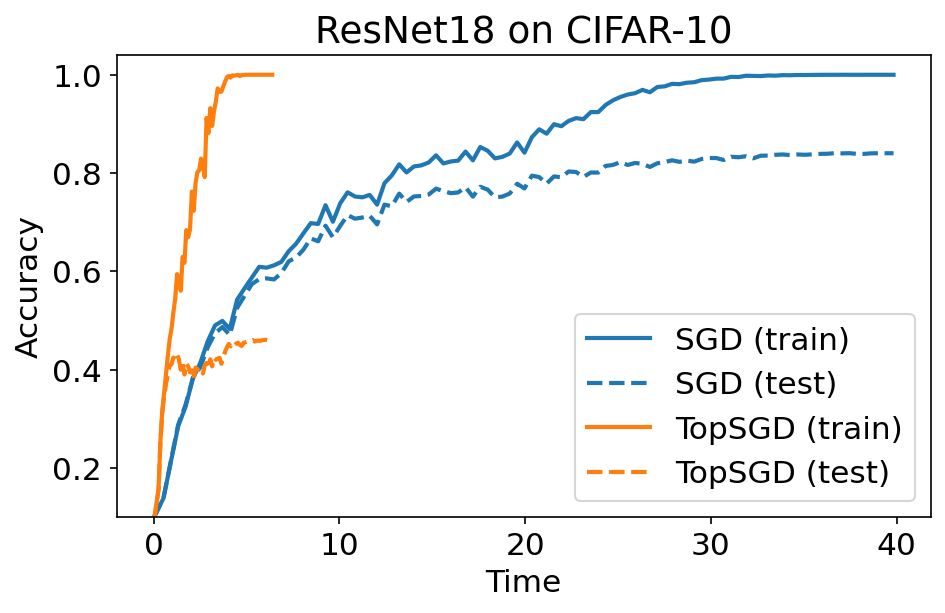
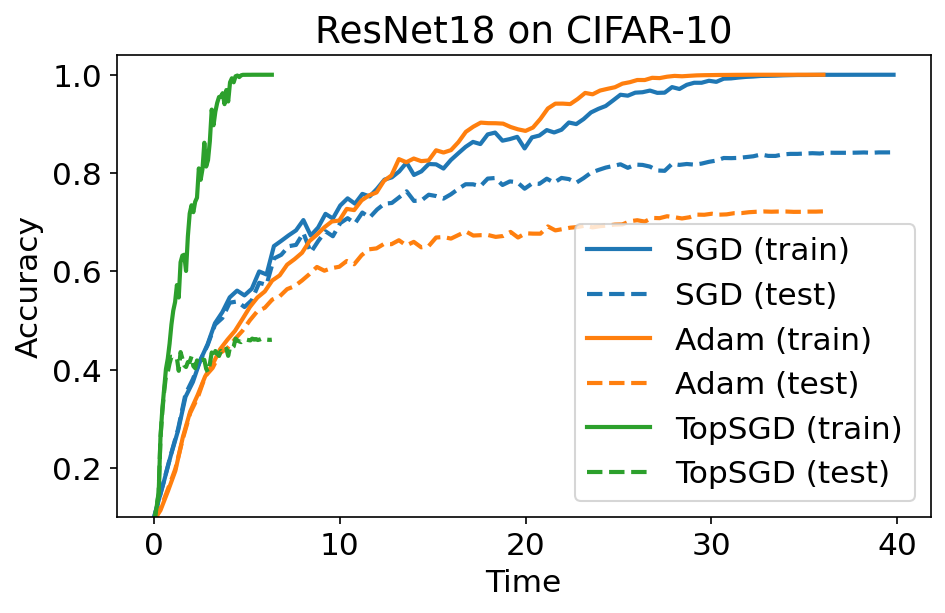
add adam

diff --git a/main.py b/main.py
@@ -172,6 +172,55 @@ for sd in tqdm(sds):
 obj = {'time': times, 'train_acc': train_accs, 'test_acc': test_accs, 'losses': losses}
 slow_obj = obj
 
+# train using Adam ----
+print('training with Adam...')
+epochs = 9
+lr = 3e-4
+
+model = ResNet18().cuda()
+
+opt = torch.optim.Adam(model.parameters(), lr=lr)
+lr_schedule = np.interp(np.arange(epochs * iters_per_epoch + 1),
+                        [0, 5 * iters_per_epoch, epochs * iters_per_epoch],
+                        [0, 1, 0])
+scheduler = lr_scheduler.LambdaLR(opt, lr_schedule.__getitem__)
+
+losses = []
+save_every = 5
+i = 0
+sds = []
+times = []
+start_time = time.time()
+for ep in tqdm(range(epochs)):
+    for inputs, labels in train_loader:
+        if i % save_every == 0:
+            sds.append({k: v.clone() for k, v in model.state_dict().items()})
+            times.append(time.time() - start_time)
+        i += 1
+        outs = model(inputs)
+        loss = F.cross_entropy(outs, labels)
+        losses.append(loss.item())
+        opt.zero_grad(set_to_none=True)
+        loss.backward()
+        opt.step()
+        scheduler.step()
+times.append(time.time() - start_time)
+sds.append({k: v.clone() for k, v in model.state_dict().items()})
+
+reset_bn(inputs)
+print('train loss:', sum(losses[-iters_per_epoch:])/iters_per_epoch)
+print('train accuracy:', evaluate(train_loader))
+print('test accuracy:', evaluate(test_loader))
+print('evaluating...')
+train_accs = []
+test_accs = []
+for sd in tqdm(sds):
+    model.load_state_dict(sd)
+    reset_bn(inputs)
+    train_accs.append(evaluate(train_loader))
+    test_accs.append(evaluate(test_loader))
+obj = {'time': times, 'train_acc': train_accs, 'test_acc': test_accs, 'losses': losses}
+slow_obj2 = obj
 
 # train using TopSGD -----
 print('training with TopSGD...')
@@ -236,7 +285,22 @@ fast_obj = obj
 
 print('speedup (topsgd vs sgd):', slow_obj['time'][-1] / fast_obj['time'][-1])
 
-# save figure
+# save figure with just train accuracy
+plt.rcParams.update({'font.size': 15})
+plt.figure(figsize=(7, 4))
+plt.title('ResNet18 on CIFAR-10')
+plt.plot(slow_obj['time'], slow_obj['train_acc'], label='SGD',
+         linewidth=2)
+plt.plot(slow_obj2['time'], slow_obj2['train_acc'], label='Adam',
+         linewidth=2)
+plt.plot(fast_obj['time'], fast_obj['train_acc'], label='TopSGD',
+         linewidth=2)
+plt.xlabel('Time')
+plt.ylabel('Train accuracy')
+plt.ylim(0.1, 1.04)
+plt.legend()
+plt.savefig('./topsgd_train.png', bbox_inches='tight', dpi=150)
+# save figure both train and test accuracy
 plt.rcParams.update({'font.size': 15})
 plt.figure(figsize=(7, 4))
 plt.title('ResNet18 on CIFAR-10')
@@ -244,14 +308,18 @@ plt.plot(slow_obj['time'], slow_obj['train_acc'], label='SGD (train)',
          linewidth=2)
 plt.plot(slow_obj['time'], slow_obj['test_acc'], label='SGD (test)',
          color=colors[0], linestyle='--', linewidth=2)
+plt.plot(slow_obj2['time'], slow_obj2['train_acc'], label='Adam (train)',
+         linewidth=2)
+plt.plot(slow_obj2['time'], slow_obj2['test_acc'], label='Adam (test)',
+         color=colors[1], linestyle='--', linewidth=2)
 plt.plot(fast_obj['time'], fast_obj['train_acc'], label='TopSGD (train)',
          linewidth=2)
 plt.plot(fast_obj['time'], fast_obj['test_acc'], label='TopSGD (test)',
-         color=colors[1], linestyle='--', linewidth=2)
+         color=colors[2], linestyle='--', linewidth=2)
 plt.xlabel('Time')
 plt.ylabel('Accuracy')
 plt.ylim(0.1, 1.04)
 plt.legend()
 plt.savefig('./topsgd.png', bbox_inches='tight', dpi=150)
-print('saved figure')
+print('saved figures')
 

diff --git a/README.md b/README.md
@@ -9,18 +9,26 @@ Files already downloaded and verified
 Files already downloaded and verified
 training with SGD...
 100%|████████████████████████████████████████████████████| 10/10 [00:39<00:00,  3.98s/it]
-train loss: 0.003233674392104149
-train accuracy: 0.99994
-test accuracy: 0.8478
+train loss: 0.00276195497950539
+train accuracy: 0.99998
+test accuracy:  0.8421
 evaluating...
 100%|██████████████████████████████████████████████████| 101/101 [01:10<00:00,  1.42it/s]
+training with Adam...
+100%|███████████████████████████████████████████████████████| 9/9 [00:36<00:00,  4.00s/it]
+train loss: 0.0058197649102658035
+train accuracy: 1.0
+test accuracy: 0.722
+evaluating...
+100%|█████████████████████████████████████████████████████| 91/91 [01:04<00:00,  1.42it/s]
 training with TopSGD...
 100%|████████████████████████████████████████████████████| 25/25 [00:06<00:00,  3.92it/s]
-train loss: 0.0015992434299550952
-train accuracy: 0.99996
-test accuracy: 0.4554
+train loss: 0.0020203389273956416
+train accuracy: 1.0
+test accuracy: 0.4609
 evaluating...
 100%|████████████████████████████████████████████████████| 64/64 [00:45<00:00,  1.42it/s]
+speedup (topsgd vs sgd): 6.237344506561958
 saved figure
 ```
 
